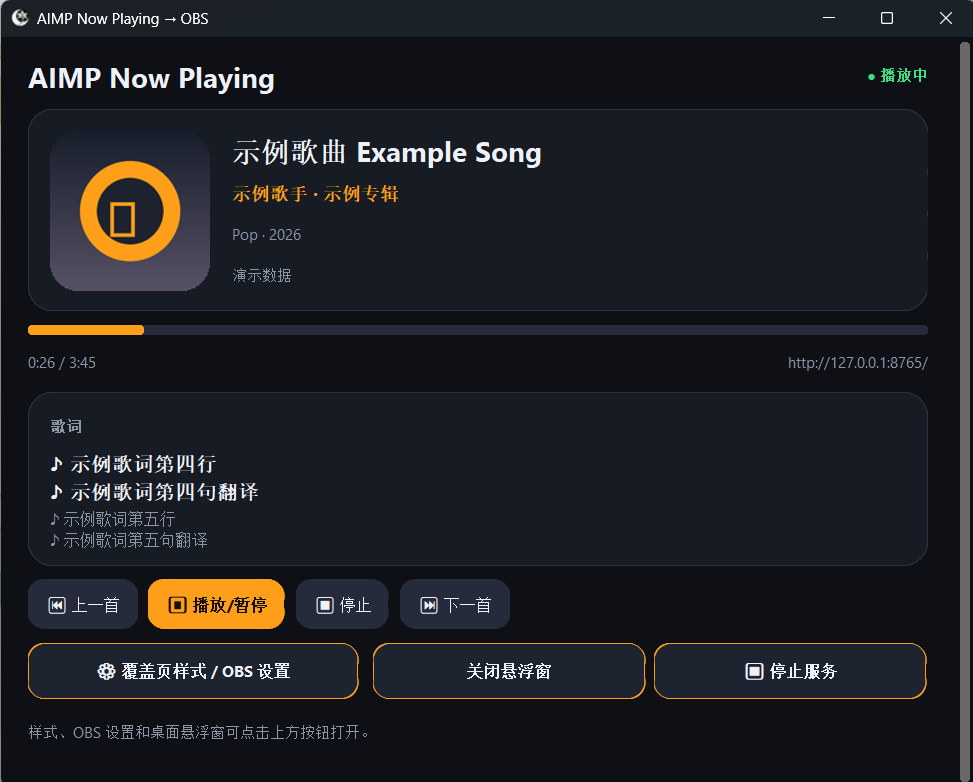
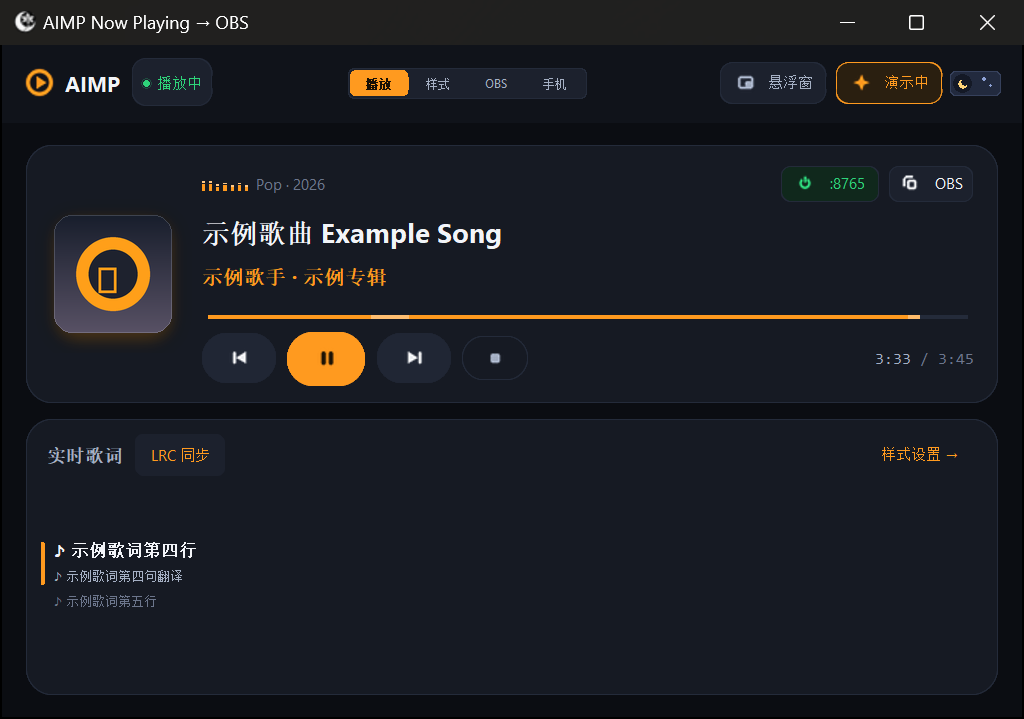
Update README content and screenshots for redesigned GUI

diff --git a/README.md b/README.md
@@ -8,20 +8,23 @@
 
 ## 功能特性
 
-- 🎵 实时获取 AIMP 播放状态、曲目信息、封面与进度（使用官方 Remote API，无需插件）
-- 🖥 桌面悬浮窗：无边框置顶、半透明、等比缩放、跨显示器拖动、全局快捷键锁定
-- 📺 OBS 浏览器源：8 套主题、九宫格定位、自定义颜色/字体/控件显隐，改样式实时同步
+- 🎵 实时获取 AIMP 播放状态、曲目信息、封面与进度（使用官方 Remote API，无需插件，支持点击/拖拽进度条跳转）
+- 🎨 紧凑现代化双主题界面：支持深色 / 亮色一键切换（带圆形涟漪过渡与 Windows 原生标题栏深浅色同步）、顶部悬浮胶囊导航、60+ FPS 原生 GDI 滑入淡入切页、封面呼吸光晕、7 柱峰值保持频谱与流光进度条
+- 🖥 桌面悬浮窗：无边框置顶、半透明、等比缩放、跨显示器拖动、全局快捷键锁定、开关淡入淡出动效，**不占用任务栏图标**
+- 📺 OBS 浏览器源：8 套主题、九宫格定位、实时 16:9 微缩预览、自定义颜色/字体/控件显隐，改样式实时同步
 - 📝 歌词：同步 LRC 逐行高亮，中日翻译双行显示，平滑滚动切换，支持本机字体搜索选择
-- 💾 设置自动保存，重启不丢失
-- 🎭 演示模式：一键让 GUI、悬浮窗与 OBS 覆盖页全部显示示例数据
-- 🔔 最小化到托盘：点最小化收进右下角通知区，不占任务栏，单击恢复、右键可退出
+- 💾 设置自动保存（含深/亮外观模式），重启不丢失
+- 🎭 演示模式：顶部一键开启，让 GUI、悬浮窗与 OBS 覆盖页全部显示示例数据
+- 🔔 最小化到托盘：点最小化收进右下角通知区，不占任务栏（悬浮窗保持正常显示且不留任务栏图标），单击恢复、右键可退出
 - 📦 单文件 exe 发布，无需安装 Python
 
 ## 截图
 
-![主界面](screenshot-gui.png)
+![主界面（深色模式）](screenshot-gui.png)
 
-![设置窗口](screenshot-settings.png)
+![主界面（亮色模式）](screenshot-gui-light.png)
+
+![覆盖页样式与实时预览](screenshot-settings.png)
 
 ![桌面悬浮窗](screenshot-floating.png)
 
@@ -107,8 +110,8 @@ http://电脑IP:8765/m
 
 **设备认证（默认关闭）**：
 
-- 手机连接默认关闭，只有在 GUI 的“📱 手机连接”窗口中启用后，设备才能连接
-- 首次连接会出现在“待审核设备”中，点击“同意”后手机才能读取信息与发送播放控制；也可“拒绝”或稍后“移除”
+- 手机连接默认关闭，只有在 GUI 顶部「手机」标签页中启用后，设备才能连接
+- 首次连接会出现在“待审核设备”中（顶部「手机」标签会亮起红点角标），点击“同意”后手机才能读取信息与发送播放控制；也可“拒绝”或稍后“移除”
 - 从旧版本升级后，原先已授权的手机需要在电脑端**重新点一次“同意”**（设备密钥迁移会重置授权状态）
 - `--headless` 模式下手机连接强制关闭
 
@@ -122,7 +125,7 @@ python main.py --host 0.0.0.0
 
 ## 桌面悬浮窗
 
-主界面点击“🖥 桌面悬浮窗”打开。
+点击主界面右上角「悬浮窗」按钮打开，支持开关淡入淡出动效，且通过 `WS_EX_TOOLWINDOW` 保持不占用任务栏图标。
 
 - 拖动：按住窗口任意位置拖动，支持跨显示器
 - 缩放：`Ctrl + 鼠标滚轮` 等比缩放（40% ~ 250%）
@@ -133,10 +136,10 @@ python main.py --host 0.0.0.0
 
 点主界面的最小化按钮后，程序不会留在任务栏，而是收进右下角通知区：
 
-- 单击或双击托盘图标：恢复主窗口
+- 单击或双击托盘图标：平滑淡入恢复主窗口
 - 右键托盘图标：菜单（显示主窗口 / 退出）
 - 首次最小化会弹一个**静音**提示气泡（`NIIF_NOSOUND`，不播放提示音）
-- 收进托盘期间程序照常运行：OBS 浏览器源、手机页面、悬浮窗、导出文件都不中断
+- 收进托盘期间程序照常运行：OBS 浏览器源、手机页面、桌面悬浮窗（保持置顶且不留任务栏图标）、导出文件都不中断
 
 > Windows 11 默认把新出现的托盘图标收进通知区的折叠面板（`^`）；想让它常驻，可在「设置 → 个性化 → 任务栏 → 其他系统托盘图标」里打开。任务栏管理器重启（资源管理器崩溃恢复）后图标会自动重新注册。
 
@@ -195,9 +198,15 @@ AIMP-OBS-NowPlaying/
 │   ├── cover.py            封面提取与缓存
 │   ├── state.py            状态汇总与导出
 │   ├── overlay.py          OBS 覆盖页（HTML/CSS/JS）
+│   ├── mobile.py           手机端页面与 PWA 清单
+│   ├── devices.py          局域网设备审批与 token 管理
 │   ├── server.py           本地 HTTP 服务
-│   ├── gui.py              CustomTkinter 主界面
+│   ├── theme.py            深/亮主题色板、矢量图标与 Win32 GDI 合成工具
+│   ├── widgets.py          自定义动画组件（过渡幕布、频谱、进度条、歌词、预览等）
+│   ├── gui.py              CustomTkinter 紧凑主界面
 │   ├── floating.py         桌面悬浮窗
+│   ├── tray.py             系统托盘图标（Win32 Shell_NotifyIconW）
+│   ├── demo.py             演示模式模拟数据
 │   ├── settings.py         设置持久化
 │   └── paths.py            源码/exe 路径工具
 ├── tests/                  单元测试
